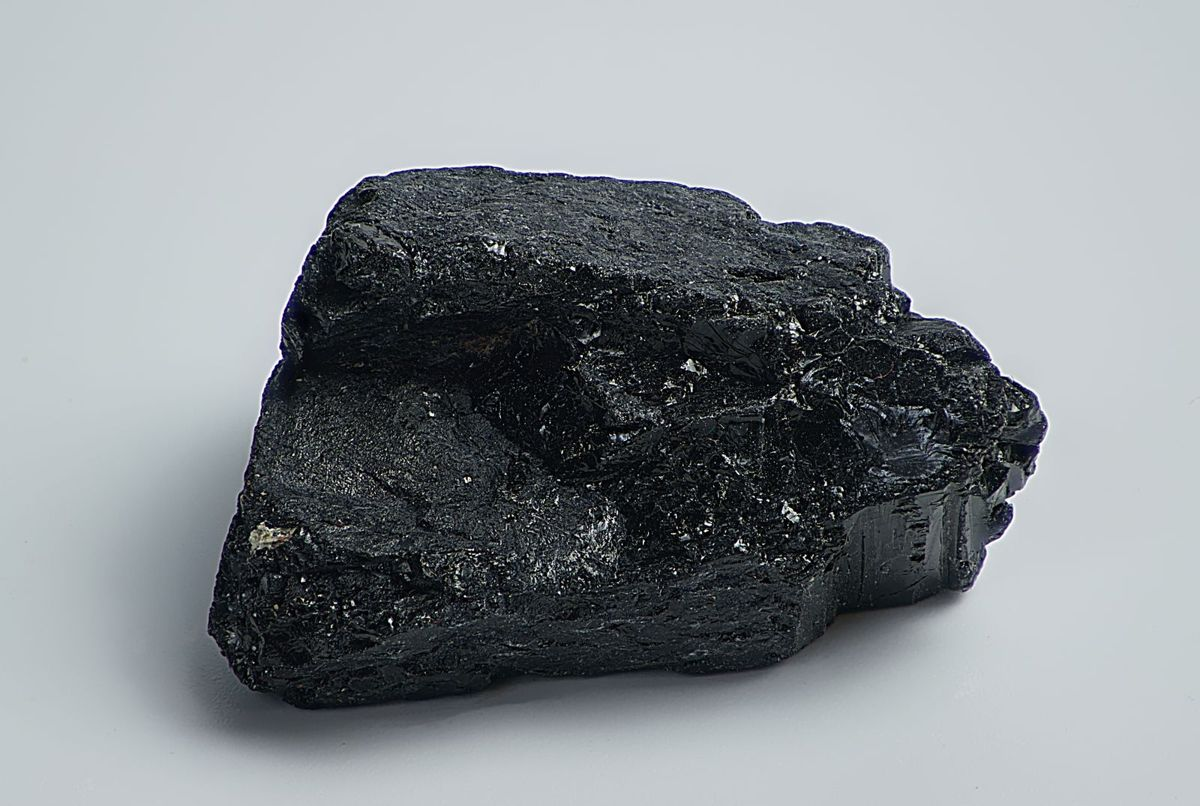
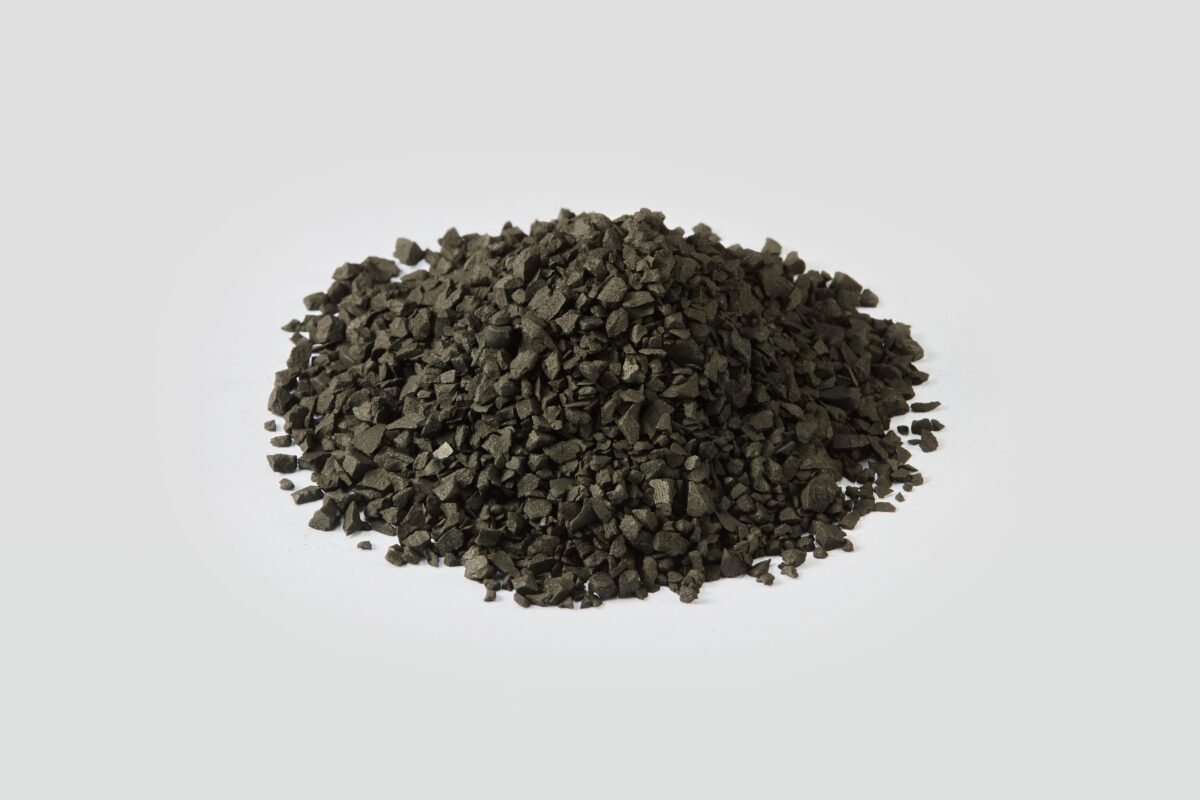
feat(mobile): 모바일은 3D 대신 공정 사진 · 선택 화면 사진
- 원자재 모바일: 공정 단계마다 현장 사진 한 장씩 교차(media/m/p0~p7), 3D 미로딩
- 선택 화면 모바일: 원자재 전기로 사진 · 글러브 상품 사진, three.js는 데스크톱에서만 로드
- 가탄제 분탄 품목 사진 교체, 모바일 스크롤 안내 위치 조정

diff --git a/main/index.html b/main/index.html
@@ -66,7 +66,7 @@ video,img{display:block}
 .dots{position:absolute;left:28px;bottom:28px;z-index:5;display:flex;gap:8px}
 /* 스크롤 안내: 첫 단계에서만 희미하게 */
 .scroll-hint{position:absolute;left:50%;bottom:30px;z-index:5;transform:translateX(-50%);display:flex;flex-direction:column;align-items:center;gap:10px;font-size:12px;font-weight:600;color:var(--mist);opacity:.7;pointer-events:none;transition:opacity .5s}
-.scroll-hint.off{opacity:0}
+.scroll-hint.off{opacity:0;visibility:hidden;transition:opacity .5s,visibility 0s .5s}
 .scroll-hint .mouse{width:22px;height:34px;border:1.5px solid currentColor;border-radius:12px;position:relative}
 .scroll-hint .mouse::after{content:"";position:absolute;left:50%;top:7px;width:3px;height:7px;margin-left:-1.5px;border-radius:2px;background:currentColor;animation:wheel 1.8s ease-in-out infinite}
 @keyframes wheel{0%{transform:translateY(0);opacity:1}70%{transform:translateY(9px);opacity:0}100%{opacity:0}}
@@ -145,6 +145,9 @@ video,img{display:block}
 .contact a.mail:hover{color:var(--ember)}
 .foot{margin-top:auto;padding-top:80px;display:flex;flex-wrap:wrap;gap:12px 40px;font-size:13px;color:var(--fog)}
 
+/* 모바일: 3D 대신 공정 사진 (단계마다 교차) */
+.ph{position:absolute;left:0;right:0;top:0;height:64%;background:#000 center/cover no-repeat;opacity:0}
+.ph::after{content:"";position:absolute;inset:0;background:linear-gradient(0deg,var(--night) 0,rgba(11,13,16,0) 45%),linear-gradient(180deg,rgba(11,13,16,.55) 0,rgba(11,13,16,0) 22%)}
 @media (max-width:760px){
   .nav{padding:16px 18px}
   .links a:not(.cta){display:none}
@@ -158,7 +161,7 @@ video,img{display:block}
   .cap p{font-size:14.5px}
   .sl-label{font-size:11px}
   .legend{display:none}
-  .scroll-hint{left:auto;right:18px;bottom:66px;transform:none;flex-direction:row;gap:8px;opacity:.85}
+  .scroll-hint{left:50%;bottom:auto;top:56%;transform:translateX(-50%);flex-direction:row;gap:8px;opacity:.85;white-space:nowrap}
   .scroll-hint .swipe i{width:8px;height:8px}
   .scroll-hint .mouse,.scroll-hint .t-d{display:none}
   .scroll-hint .swipe,.scroll-hint .t-m{display:flex}
@@ -312,7 +315,15 @@ function load3d() {
     .then(() => loadScript('js/steel-line.js'))
     .then(() => { line = SteelLine.mount(document.getElementById('gl'), document.getElementById('labels')); if (step >= 0) line.focus(step); });
 }
-if (heroMode) load3d(); else addEventListener('scroll', load3d, { once: true, passive: true });
+// 모바일은 3D가 무겁고 작아서 공정 사진으로 대신한다
+const MOB = matchMedia('(max-width: 760px)').matches;
+const PHOTOS = ['p0', 'p1', 'p2', 'p3', 'p4', 'p5', 'p6', 'p7'];
+let phs = [];
+if (MOB) {
+  const gl = document.getElementById('gl');
+  phs = [...document.querySelectorAll('#cap .c')].map((_, i) => { const d = document.createElement('div'); d.className = 'ph'; d.style.backgroundImage = `url(media/m/${PHOTOS[i] || PHOTOS[PHOTOS.length - 1]}.jpg)`; gl.appendChild(d); return d; });
+  document.querySelector('.legend').remove();
+} else if (heroMode) load3d(); else addEventListener('scroll', load3d, { once: true, passive: true });
 const caps = [...document.querySelectorAll('#cap .c')];
 const dots = document.getElementById('dots');
 caps.forEach((_, i) => { const b = document.createElement('button'); b.setAttribute('aria-label', (i + 1) + '단계'); dots.appendChild(b); });
@@ -321,6 +332,9 @@ let step = -1;
 function setStep(i) {
   if (i === step) return; step = i;
   if (line) line.focus(i);
+  phs.forEach((p, k) => k === i
+    ? gsap.fromTo(p, { opacity: p.style.opacity || 0, scale: 1.06 }, { opacity: 1, scale: 1, duration: reduce ? 0 : 0.9, ease: 'power2.out', overwrite: true })
+    : gsap.to(p, { opacity: 0, duration: reduce ? 0 : 0.6, overwrite: true }));
   caps.forEach((c, k) => c.classList.toggle('on', k === i));
   dotBtns.forEach((d, k) => d.classList.toggle('on', k === i));
   document.getElementById('scrollHint').classList.toggle('off', i > 0);

diff --git a/hub/index.html b/hub/index.html
@@ -89,20 +89,27 @@ h2{font-size:clamp(32px,3.6vw,56px);font-weight:800;letter-spacing:-.045em;line-
   </section>
 </main>
 
-<script src="https://cdn.jsdelivr.net/npm/three@0.147.0/build/three.min.js"></script>
-<script src="https://cdn.jsdelivr.net/npm/three@0.147.0/examples/js/utils/BufferGeometryUtils.js"></script>
-<script src="https://cdn.jsdelivr.net/npm/three@0.147.0/examples/js/environments/RoomEnvironment.js"></script>
-<script src="https://cdnjs.cloudflare.com/ajax/libs/gsap/3.12.5/gsap.min.js"></script>
-<script src="/hub/js/steel-line.js"></script>
-<script src="/hub/js/glove-line.js"></script>
 <script>
-const mob = innerWidth < 769;
-// 원자재: 전기로 출강 → LF → 연주가 한 화면에 들어오게
-SteelLine.mount(document.getElementById('glRaw'), null, { view: mob ? { t: [-6, 3, -2], size: 15, fx: 0.5, fy: 0.42 } : { t: [-8, 3.5, -2], size: 15, fx: 0.62, fy: 0.5 } });
-// 글러브: 응고제 → 니트릴 → 경화 오븐 → 탈형 → 포장까지 한 줄로 (모바일은 좁아서 천천히 흐른다)
-const glove = GloveLine.mount(document.getElementById('glGlove'), { view: mob ? { t: [6, 1.8, 1.2], size: 9, fx: 0.5, fy: 0.42 } : { t: [2.5, 1.8, 0.8], size: 9, fx: 0.6, fy: 0.42 }, drift: mob ? 3 : 0 });
-document.querySelector('.glove').addEventListener('mouseenter', () => glove.setSpeed(1.8));
-document.querySelector('.glove').addEventListener('mouseleave', () => glove.setSpeed(1));
+// 모바일은 3D 대신 사진 한 장씩 (가볍고 화질이 좋다)
+const mob = matchMedia('(max-width: 768px)').matches;
+const loadScript = src => new Promise((ok, fail) => { const el = document.createElement('script'); el.src = src; el.onload = ok; el.onerror = fail; document.head.appendChild(el); });
+if (mob) {
+  document.getElementById('glRaw').style.background = '#000 url(/hub/img/m-raw.jpg) center/cover';
+  document.getElementById('glGlove').style.background = '#000 url(/hub/img/m-glove.jpg) center/cover';
+} else {
+  const T = 'https://cdn.jsdelivr.net/npm/three@0.147.0/';
+  loadScript(T + 'build/three.min.js')
+    .then(() => Promise.all([T + 'examples/js/utils/BufferGeometryUtils.js', T + 'examples/js/environments/RoomEnvironment.js', 'https://cdnjs.cloudflare.com/ajax/libs/gsap/3.12.5/gsap.min.js'].map(loadScript)))
+    .then(() => Promise.all(['/hub/js/steel-line.js', '/hub/js/glove-line.js'].map(loadScript)))
+    .then(() => {
+      // 원자재: 원료 야적 → 전기로 → LF → 집진이 가로 띠에 들어오게
+      SteelLine.mount(document.getElementById('glRaw'), null, { view: { t: [-8, 3.5, -2], size: 15, fx: 0.62, fy: 0.5 } });
+      // 글러브: 응고제 → 니트릴 → 경화 오븐 → 탈형 → 포장까지 한 줄로
+      const glove = GloveLine.mount(document.getElementById('glGlove'), { view: { t: [2.5, 1.8, 0.8], size: 9, fx: 0.6, fy: 0.42 } });
+      document.querySelector('.glove').addEventListener('mouseenter', () => glove.setSpeed(1.8));
+      document.querySelector('.glove').addEventListener('mouseleave', () => glove.setSpeed(1));
+    });
+}
 
 document.querySelectorAll('[data-go]').forEach(b => b.addEventListener('click', e => { e.stopPropagation(); location.href = b.dataset.go; }));
 document.querySelectorAll('.panel').forEach(p => p.addEventListener('click', () => { location.href = p.dataset.href; }));
